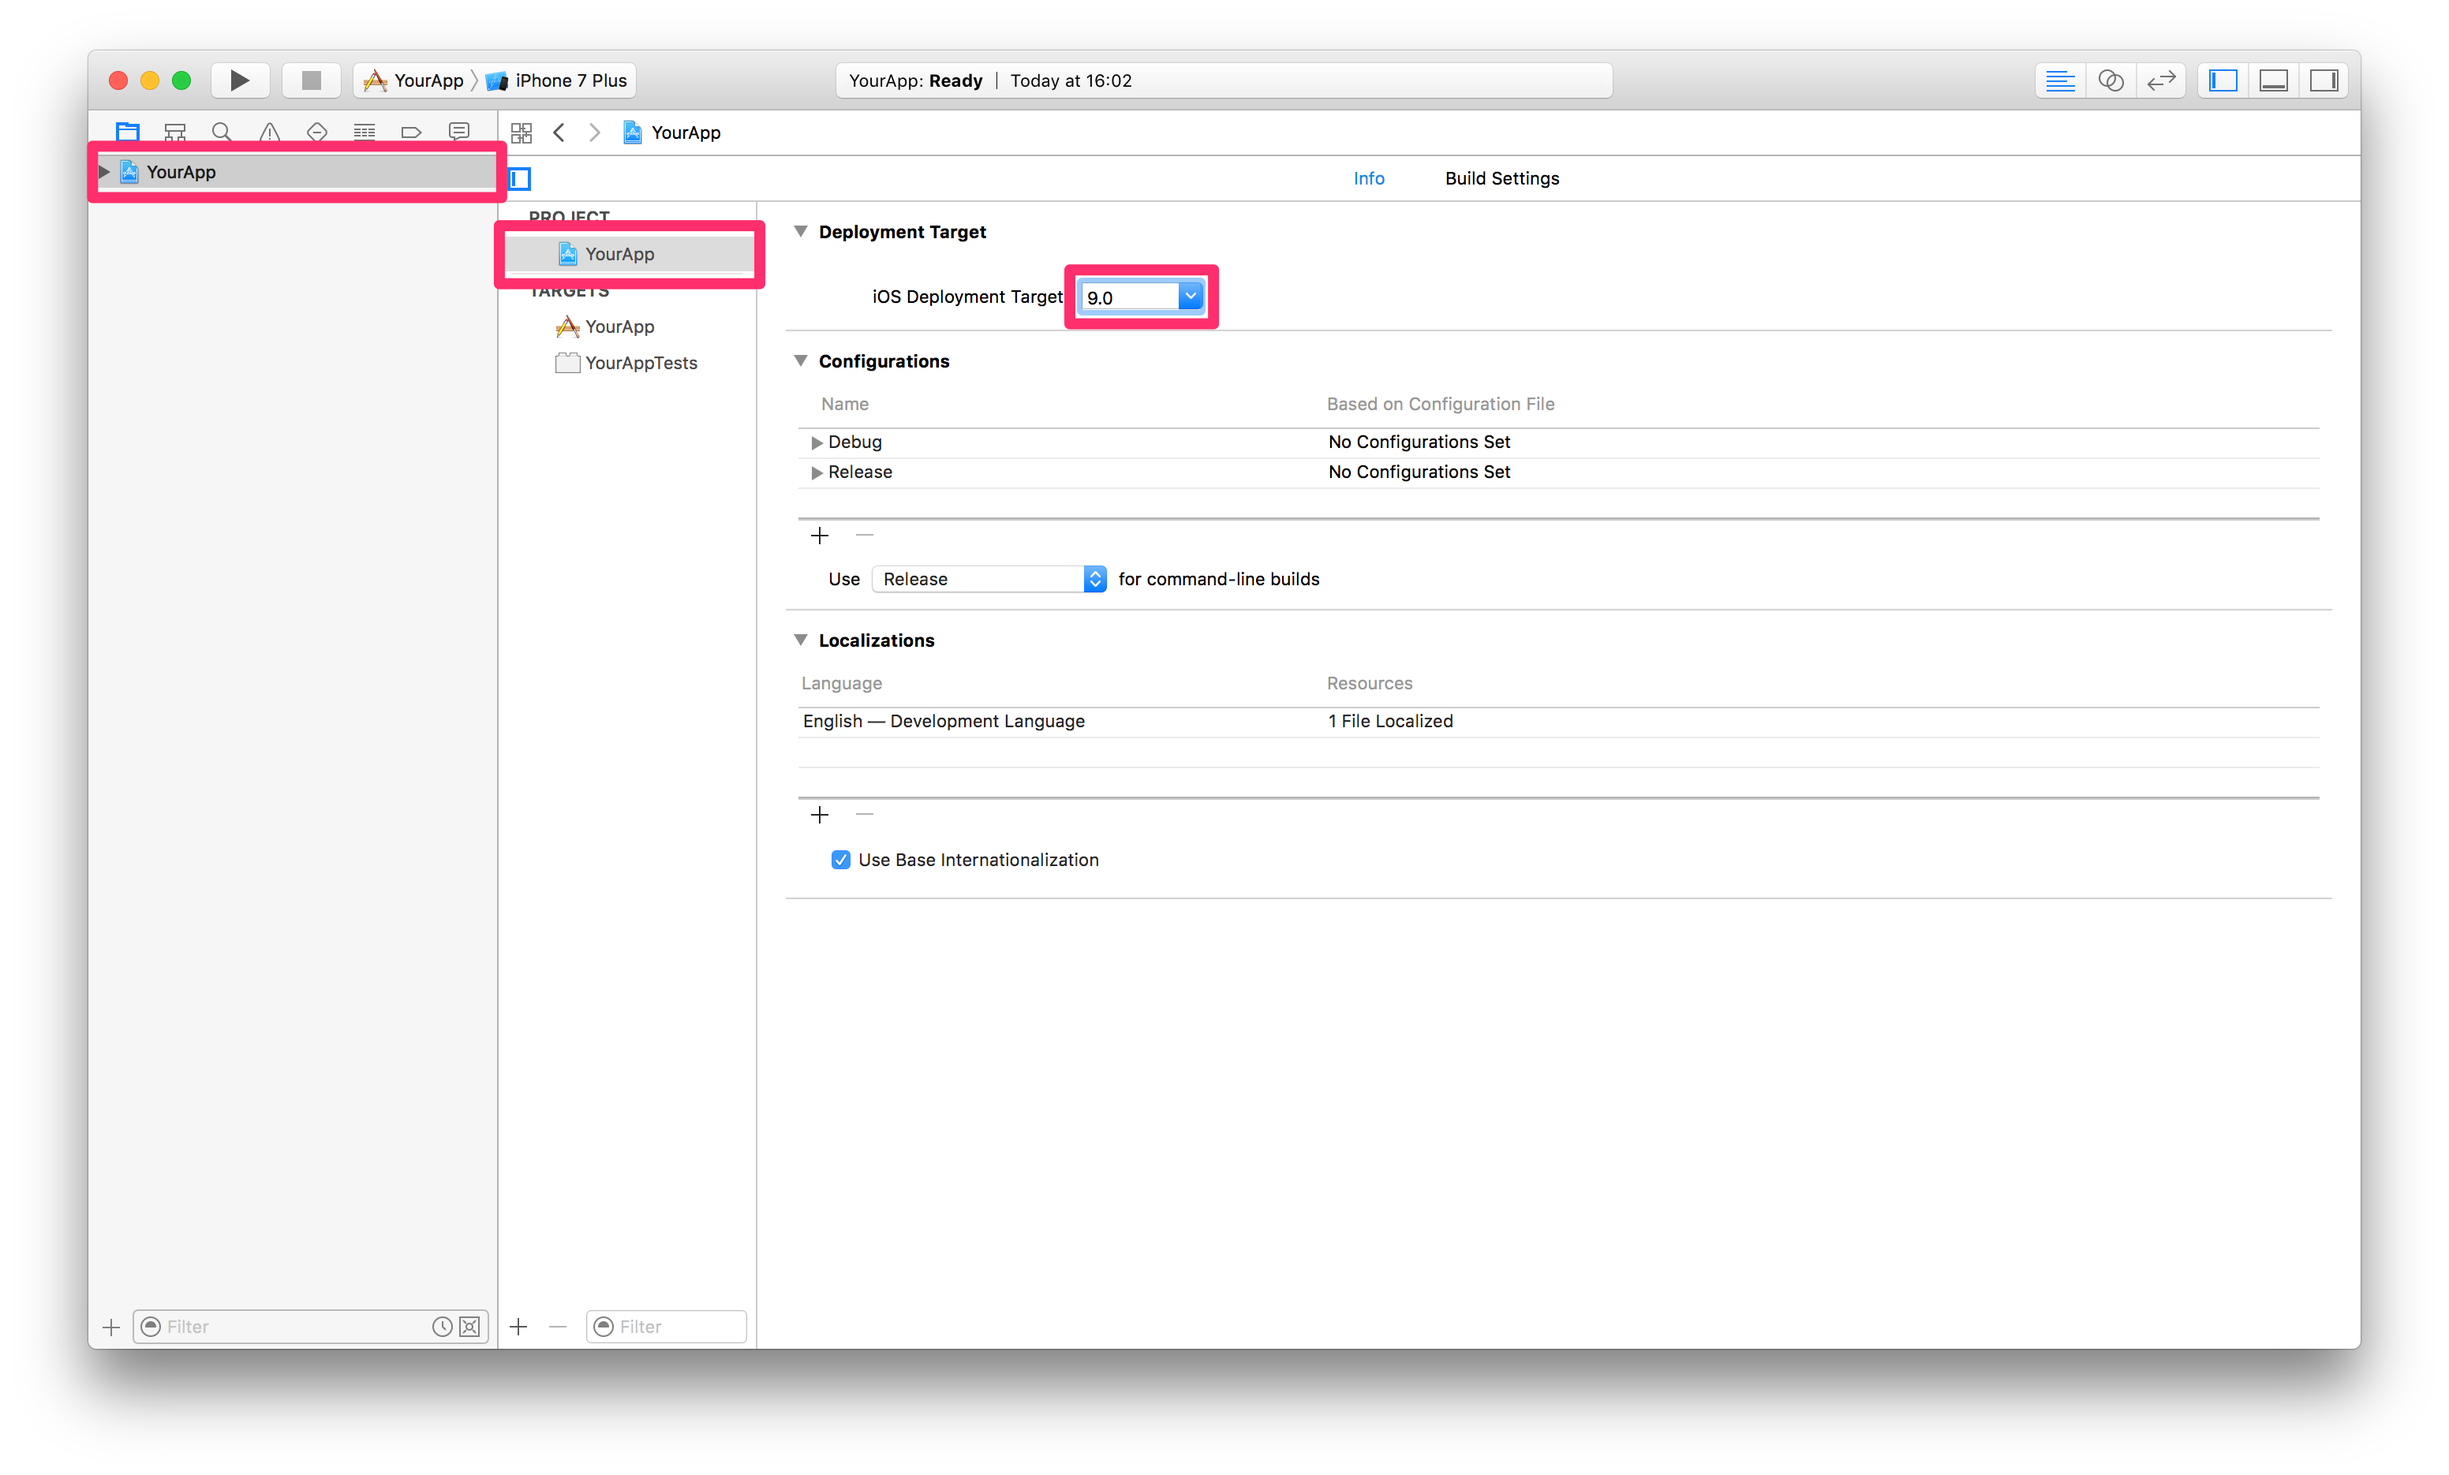
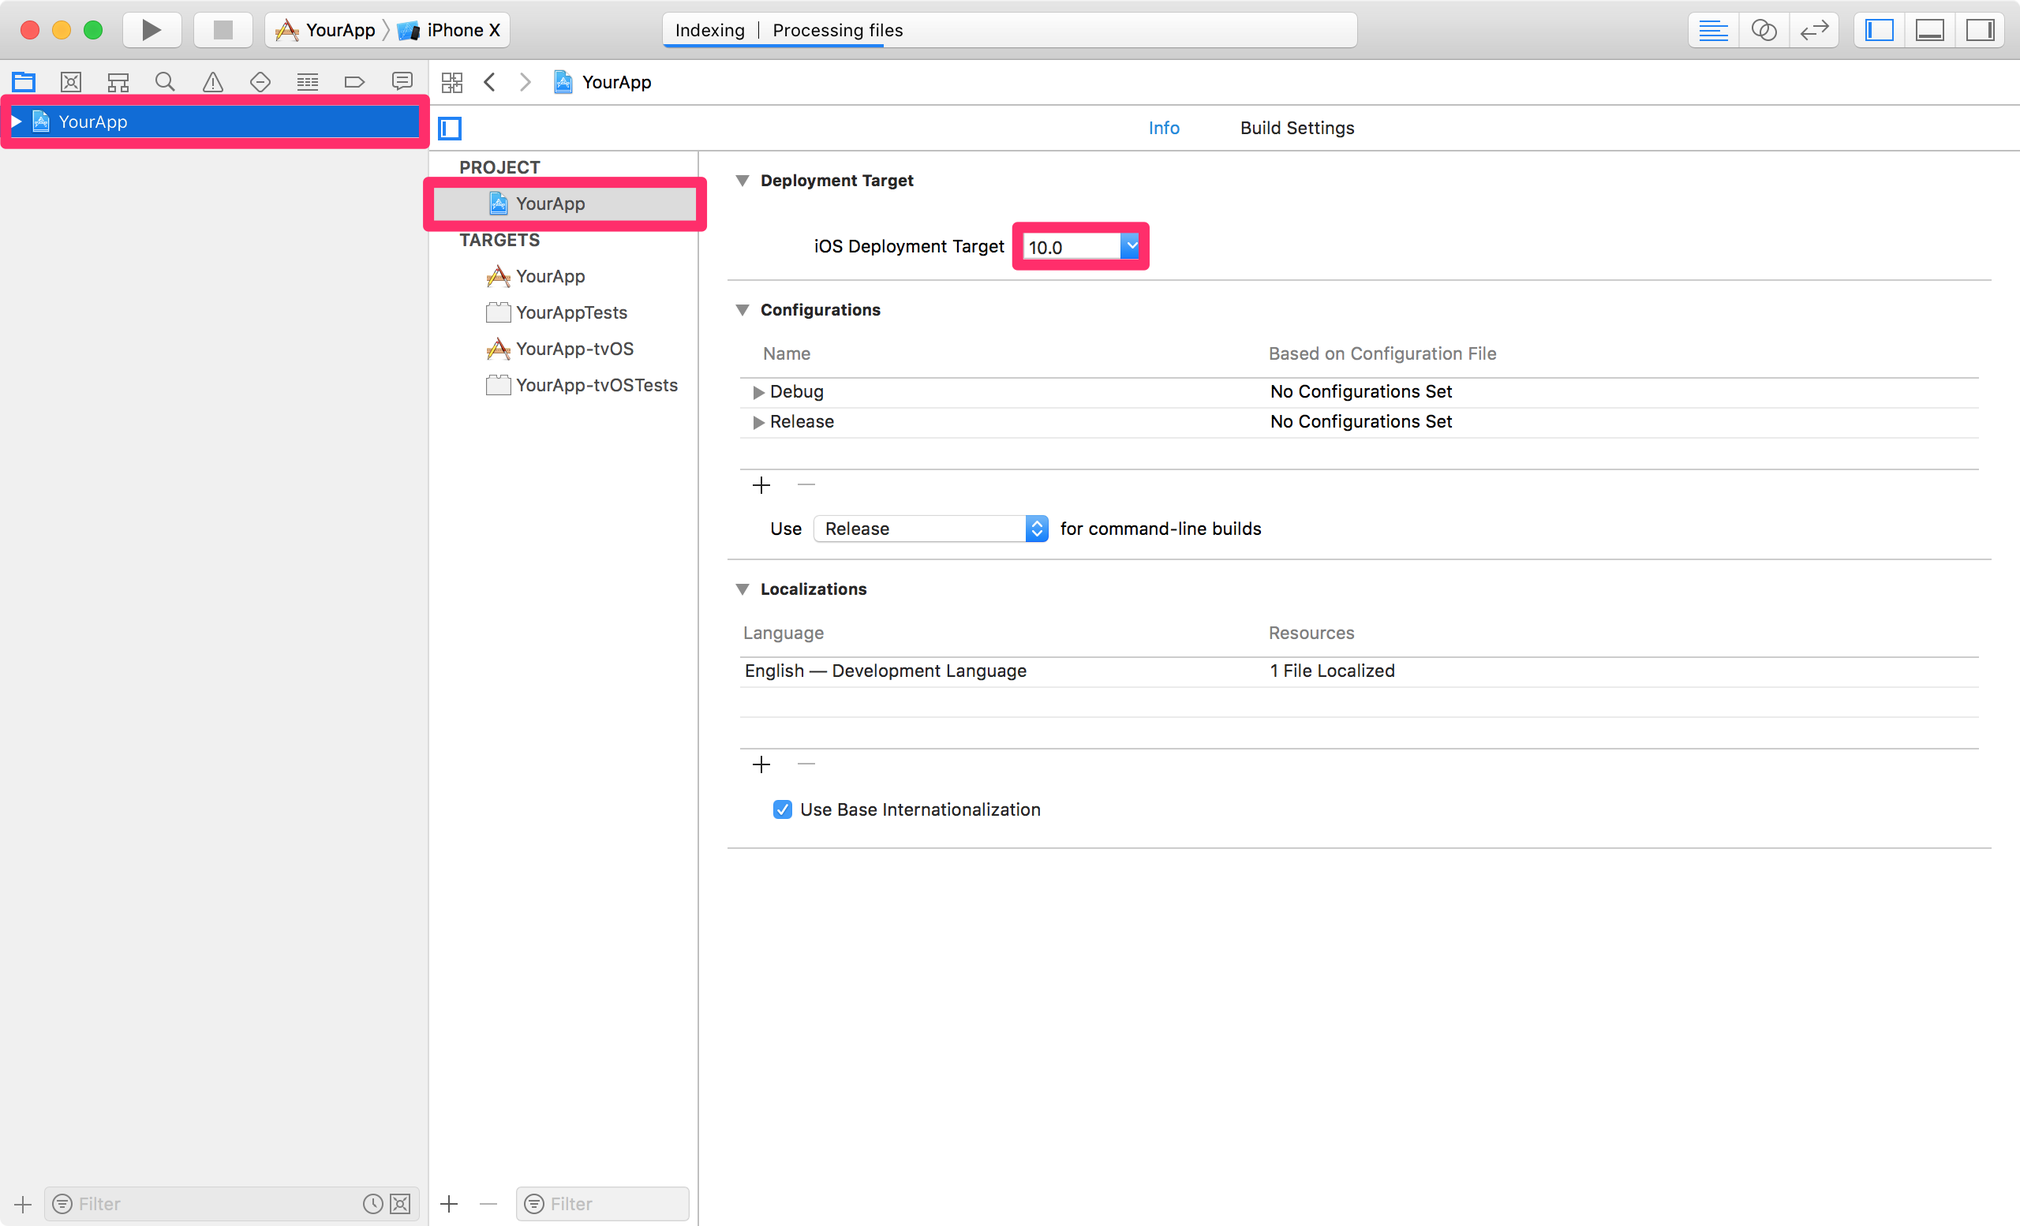
Update for PSPDFKit 7.6 for iOS

Changed region(s): [[0.0, 0.0, 1.0, 1.0], [0.4375, 0.3707, 0.625, 0.4942], [0.375, 0.6486, 0.5, 0.6795]]

diff --git a/README.md b/README.md
@@ -19,9 +19,9 @@ The [PSPDFKit SDK](https://pspdfkit.com/) is a framework that allows you to view
 
 #### Requirements
 
-- Xcode 9.3
-- PSPDFKit 7 for iOS
-- react-native >= 0.48.4
+- Xcode 9.4
+- PSPDFKit 7.6 for iOS or later
+- react-native >= 0.55.4
 
 #### Getting Started
 
@@ -33,18 +33,19 @@ Let's create a simple app that integrates PSPDFKit and uses the `react-native-ps
 2. Create the app with `react-native init YourApp`.
 3. Step into your newly created app folder: `cd YourApp`
 4. Install `react-native-pspdfkit` from GitHub: `yarn add github:PSPDFKit/react-native`
-5. Link module `react-native-pspdfkit`: `react-native link react-native-pspdfkit` 
-6. Create the folder `ios/PSPDFKit` and copy `PSPDFKit.framework` and `PSPDFKitUI.framework` into it.
-7. Open `ios/YourApp.xcodeproj` in Xcode: `open ios/YourApp.xcodeproj`
-8. Make sure the deployment target is set to 9.0 or higher:
+5. Run `yarn install`
+6. Link module `react-native-pspdfkit`: `react-native link react-native-pspdfkit` 
+7. Create the folder `ios/PSPDFKit` and copy `PSPDFKit.framework` and `PSPDFKitUI.framework` into it.
+8. Open `ios/YourApp.xcodeproj` in Xcode: `open ios/YourApp.xcodeproj`
+9. Make sure the deployment target is set to 10.0 or higher:
 ![Deployment Target](screenshots/deployment-target.png)
-9. Change "View controller-based status bar appearance" to `YES` in `Info.plist`:
+10. Change "View controller-based status bar appearance" to `YES` in `Info.plist`:
 ![View Controller-Based Status Bar Appearance](screenshots/view-controller-based-status-bar-appearance.png)
-10. Link with the `libRCTPSPDFKit.a` static library (if `libRCTPSPDFKit.a` is already there but greyed out, delete it and link it again): 
+11. Link with the `libRCTPSPDFKit.a` static library (if `libRCTPSPDFKit.a` is already there but greyed out, delete it and link it again): 
 ![Linking Static Library](screenshots/linking-static-library.png)
-11. Embed `PSPDFKit.framework` and `PSPDFKitUI.framework` by drag and dropping it into the "Embedded Binaries" section of the "YourApp" target (Select "Create groups"). This will also add it to the "Linked Framworks and Libraries" section:
+12. Embed `PSPDFKit.framework` and `PSPDFKitUI.framework` by drag and dropping it into the "Embedded Binaries" section of the "YourApp" target (Select "Create groups"). This will also add it to the "Linked Framworks and Libraries" section:
 ![Embedding PSPDFKit](screenshots/embedding-pspdfkit.png)
-12. Add a new `Run Script Phase` in your target’s `Build Phases`.
+13. Add a new `Run Script Phase` in your target’s `Build Phases`.
 **IMPORTANT:** Make sure this `Run Script Phase` is below the `Embed Frameworks` build phase.  
 You can drag and drop build phases to rearrange them.  
 Paste the following line in the script text field of `Run Script Phase`:
@@ -52,9 +53,9 @@ Paste the following line in the script text field of `Run Script Phase`:
 bash "$BUILT_PRODUCTS_DIR/$FRAMEWORKS_FOLDER_PATH/PSPDFKit.framework/strip-framework.sh"
 ```
 ![Run Script Phase](screenshots/run-script-phase.png)
-13. Add a PDF by drag and dropping it into your Xcode project (Select "Create groups" and add to target "YourApp"). This will add the document to the "Copy Bundle Resources" build phase:
+14. Add a PDF by drag and dropping it into your Xcode project (Select "Create groups" and add to target "YourApp"). This will add the document to the "Copy Bundle Resources" build phase:
 ![Adding PDF](screenshots/adding-pdf.png)
-14. Replace the default component from `App.js` with a simple touch area to present the bundled PDF. (Note that you can also use a [Native UI Component](#native-ui-component) to show a PDF.)
+15. Replace the default component from `App.js` with a simple touch area to present the bundled PDF. (Note that you can also use a [Native UI Component](#native-ui-component) to show a PDF.)
 
 ```javascript
 import React, { Component } from 'react';
